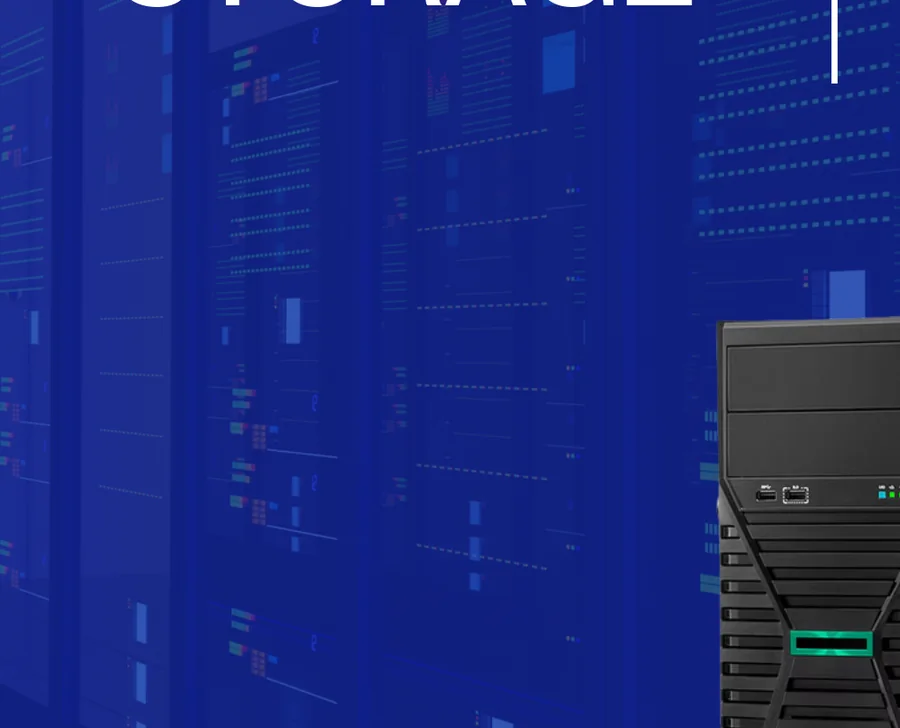
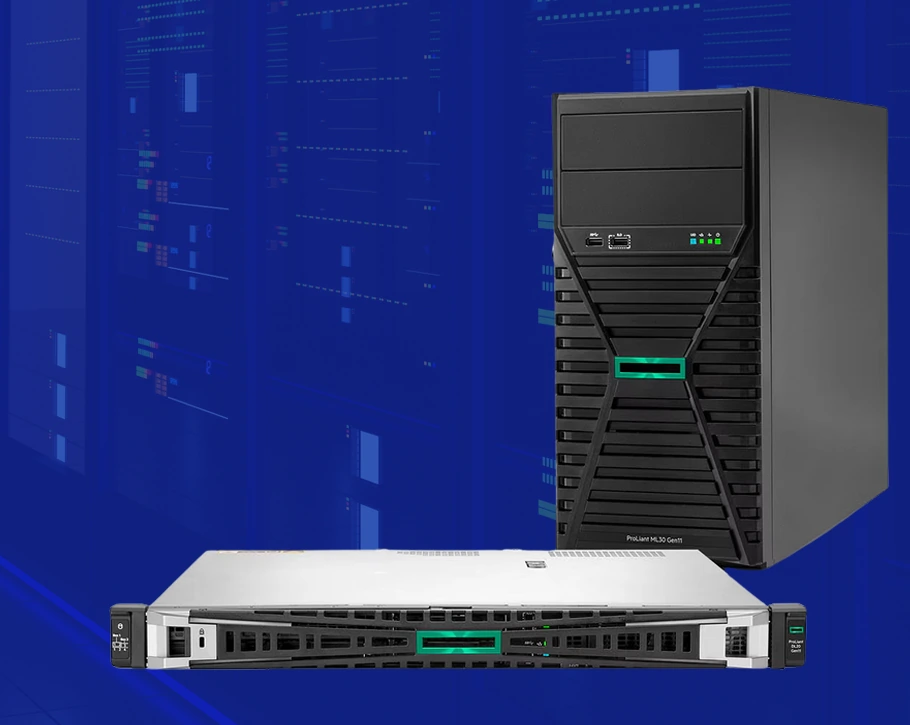
Add files via upload

diff --git a/index.html b/index.html
@@ -3,8 +3,8 @@
 <head>
   <meta charset="utf-8">
   <meta name="viewport" content="width=device-width, initial-scale=1">
-  <title>Área 1 | Shop, Eventos, Data y Equipamiento</title>
-  <meta name="description" content="Área 1 integra shop, eventos, data y equipamiento en un ecosistema de soluciones claras, útiles y profesionales.">
+  <title>Área 1 | Shop, Eventos, Inteligencia &amp; Gestión y Equipamiento</title>
+  <meta name="description" content="Área 1 integra shop, eventos, inteligencia y gestión, y equipamiento en un ecosistema de soluciones claras, útiles y profesionales.">
   <meta name="theme-color" content="#061225">
   <link rel="stylesheet" href="assets/css/styles.css">
 </head>
@@ -12,7 +12,7 @@
   <div class="topbar">
     <div class="container topbar-row">
       <span>Una marca. Cuatro unidades especializadas.</span>
-      <span>Equipamiento · Data · Eventos · Shop</span>
+      <span>Equipamiento · Inteligencia &amp; Gestión · Eventos · Shop</span>
     </div>
   </div>
 
@@ -24,7 +24,7 @@
       <nav class="nav" aria-label="Navegación principal">
         <a href="index.html" aria-current="page">Área 1</a>
         <a href="equipamiento.html">Equipamiento</a>
-        <a href="datos.html">Data</a>
+        <a href="datos.html">Inteligencia &amp; Gestión</a>
         <a href="eventos.html">Eventos</a>
         <a href="/shop/">Shop</a>
         <a href="#metodo">Cómo trabajamos</a>
@@ -42,7 +42,7 @@
         <div class="hero-copy reveal">
           <span class="eyebrow eyebrow-light">Ecosistema Área 1</span>
           <h1>Transformamos <strong>información, ideas y necesidades</strong> en soluciones útiles y profesionales.</h1>
-          <p class="lead">Área 1 reúne shop, eventos, data y equipamiento bajo una misma forma de trabajo: claridad, diseño y enfoque práctico para convertir cada necesidad en una experiencia concreta.</p>
+          <p class="lead">Área 1 reúne shop, eventos, inteligencia y gestión, y equipamiento bajo una misma forma de trabajo: claridad, diseño y enfoque práctico para convertir cada necesidad en una experiencia concreta.</p>
           <div class="hero-actions">
             <a class="btn btn-primary" href="#soluciones">Conocer las áreas</a>
             <a class="btn btn-secondary" href="#metodo">Nuestra forma de trabajar</a>
@@ -117,18 +117,18 @@
 
           <article class="solution-feature solution-data reveal">
             <div class="solution-copy">
-              <span class="solution-index">03 · Área 1 Data</span>
-              <h3>Datos claros. Procesos mejores. Decisiones con respaldo.</h3>
+              <span class="solution-index">03 · Área 1 Inteligencia &amp; Gestión</span>
+              <h3>Información clara. Procesos mejor gestionados. Decisiones con respaldo.</h3>
               <p>Servicios profesionales para ordenar datos, analizar procesos, automatizar informes y convertir información dispersa en gestión.</p>
               <ul class="clean-list">
                 <li>Diagnóstico y mejora de procesos</li>
                 <li>Curación, integración y estructuración de datos</li>
                 <li>Tableros, KPI, informes, proyecciones y automatización</li>
               </ul>
-              <a class="btn btn-primary" href="datos.html">Conocer Área 1 Data</a>
+              <a class="btn btn-primary" href="datos.html">Conocer Área 1 Inteligencia &amp; Gestión</a>
             </div>
             <div class="solution-visual dashboard-preview" aria-hidden="true">
-              <div class="dashboard-top"><span>Panel de gestión</span><b>Área 1 Data</b></div>
+              <div class="dashboard-top"><span>Panel de gestión</span><b>Área 1 Inteligencia &amp; Gestión</b></div>
               <div class="dashboard-kpis">
                 <div><small>Productividad</small><strong>+18%</strong></div>
                 <div><small>Desvíos</small><strong>-12%</strong></div>
@@ -196,7 +196,7 @@
           <img src="assets/img/brand/logo-horizontal.png" alt="Área 1">
           <p>Transformamos información, ideas y necesidades en soluciones claras, útiles y profesionales.</p>
         </div>
-        <div><h4>Soluciones</h4><a href="/shop/">Área 1 Shop</a><a href="eventos.html">Área 1 Eventos</a><a href="datos.html">Área 1 Data</a><a href="equipamiento.html">Área 1 Equipamiento</a></div>
+        <div><h4>Soluciones</h4><a href="/shop/">Área 1 Shop</a><a href="eventos.html">Área 1 Eventos</a><a href="datos.html">Área 1 Inteligencia &amp; Gestión</a><a href="equipamiento.html">Área 1 Equipamiento</a></div>
         <div><h4>Marca</h4><a href="#soluciones">Unidades</a><a href="#metodo">Cómo trabajamos</a><a href="index.html">Página central</a></div>
         <div><h4>Próximamente</h4><span>Canales de contacto</span><span>Casos y portfolio</span></div>
       </div>

diff --git a/datos.html b/datos.html
@@ -3,20 +3,20 @@
 <head>
   <meta charset="utf-8">
   <meta name="viewport" content="width=device-width, initial-scale=1">
-  <title>Área 1 Data | Análisis de datos, procesos e información para empresas</title>
+  <title>Área 1 Inteligencia &amp; Gestión | Análisis de datos, procesos e información para empresas</title>
   <meta name="description" content="Servicios profesionales de análisis de procesos, curación y estructuración de datos, tableros, informes, automatización y proyecciones.">
   <meta name="theme-color" content="#061225">
   <link rel="stylesheet" href="assets/css/styles.css">
 </head>
 <body class="data-page">
-  <div class="topbar"><div class="container topbar-row"><span>Área 1 Data</span><span>Procesos · Información · Decisiones</span></div></div>
+  <div class="topbar"><div class="container topbar-row"><span>Área 1 Inteligencia &amp; Gestión</span><span>Procesos · Información · Decisiones</span></div></div>
   <header class="site-header site-header-dark">
     <div class="container header-row">
       <a class="brand" href="index.html" aria-label="Área 1, inicio"><img src="assets/img/brand/logo-horizontal.png" alt="Área 1"></a>
       <nav class="nav" aria-label="Navegación principal">
         <a href="index.html">Área 1</a>
         <a href="equipamiento.html">Equipamiento</a>
-        <a href="datos.html" aria-current="page">Data</a>
+        <a href="datos.html" aria-current="page">Inteligencia &amp; Gestión</a>
         <a href="eventos.html">Eventos</a>
         <a href="/shop/">Shop</a>
         <a href="#servicios">Servicios</a>
@@ -32,9 +32,9 @@
     <section class="data-hero">
       <div class="container data-hero-grid">
         <div class="data-hero-copy reveal">
-          <span class="eyebrow eyebrow-light">Servicios profesionales de datos y procesos</span>
+          <span class="eyebrow eyebrow-light">Servicios profesionales de inteligencia, datos y procesos</span>
           <h1>Convertimos información dispersa en <strong>gestión, control y decisiones.</strong></h1>
-          <p class="lead">Área 1 Data combina análisis de procesos, ingeniería de datos, inteligencia de negocios y comunicación ejecutiva para construir soluciones que puedan usarse todos los días.</p>
+          <p class="lead">Área 1 Inteligencia &amp; Gestión combina análisis de procesos, ingeniería de datos, inteligencia de negocios y comunicación ejecutiva para construir soluciones que puedan usarse todos los días.</p>
           <div class="hero-actions">
             <a class="btn btn-primary" href="#servicios">Ver servicios</a>
             <a class="btn btn-secondary" href="#metodo-data">Cómo trabajamos</a>
@@ -47,7 +47,7 @@
         </div>
         <div class="data-hero-visual reveal reveal-delay" aria-label="Ejemplo de tablero de gestión">
           <div class="analytics-window">
-            <div class="analytics-header"><div><small>Área 1 Data</small><strong>Panel ejecutivo</strong></div><span>Actualizado</span></div>
+            <div class="analytics-header"><div><small>Área 1 Inteligencia &amp; Gestión</small><strong>Panel ejecutivo</strong></div><span>Actualizado</span></div>
             <div class="analytics-kpis">
               <article><small>Volumen</small><strong>8,42 M</strong><span class="positive">+12,8%</span></article>
               <article><small>Productividad</small><strong>94,6%</strong><span class="positive">+4,1%</span></article>
@@ -185,7 +185,7 @@
   <footer class="footer footer-dark">
     <div class="container">
       <div class="footer-grid">
-        <div class="footer-brand"><img src="assets/img/brand/logo-horizontal.png" alt="Área 1"><p>Área 1 Data · Procesos medibles, datos confiables y decisiones claras.</p></div>
+        <div class="footer-brand"><img src="assets/img/brand/logo-horizontal.png" alt="Área 1"><p>Área 1 Inteligencia &amp; Gestión · Procesos medibles, datos confiables y decisiones claras.</p></div>
         <div><h4>Servicios</h4><a href="#servicios">Procesos</a><a href="#servicios">Datos y BI</a><a href="#servicios">Automatización</a><a href="#servicios">Proyecciones</a></div>
         <div><h4>Área 1</h4><a href="index.html">Página central</a><a href="/shop/">Shop</a><a href="eventos.html">Eventos</a><a href="equipamiento.html">Equipamiento</a></div>
         <div><h4>Próximamente</h4><span>Canales de contacto</span><span>Casos y portfolio</span></div>

diff --git a/equipamiento.html b/equipamiento.html
@@ -16,7 +16,7 @@
       <nav class="nav" aria-label="Navegación principal">
         <a href="index.html">Área 1</a>
         <a href="equipamiento.html" aria-current="page">Equipamiento</a>
-        <a href="datos.html">Data</a>
+        <a href="datos.html">Inteligencia &amp; Gestión</a>
         <a href="eventos.html">Eventos</a>
         <a href="/shop/">Shop</a>
         <a href="#categorias">Categorías</a>
@@ -180,7 +180,7 @@
     <div class="container">
       <div class="footer-grid">
         <div class="footer-brand"><img src="assets/img/brand/logo-horizontal.png" alt="Área 1"><p>Transformamos información, ideas y necesidades en soluciones claras, útiles y profesionales.</p></div>
-        <div><h4>Soluciones</h4><a href="/shop/">Área 1 Shop</a><a href="eventos.html">Área 1 Eventos</a><a href="datos.html">Área 1 Data</a><a href="equipamiento.html">Área 1 Equipamiento</a></div>
+        <div><h4>Soluciones</h4><a href="/shop/">Área 1 Shop</a><a href="eventos.html">Área 1 Eventos</a><a href="datos.html">Área 1 Inteligencia &amp; Gestión</a><a href="equipamiento.html">Área 1 Equipamiento</a></div>
         <div><h4>Equipamiento</h4><a href="#categorias">Categorías</a><a href="#destacados-equip">Soluciones destacadas</a><a href="#cotizacion">Cómo cotizamos</a></div>
         <div><h4>Alcance</h4><span>Modelos sujetos a disponibilidad</span><span>Precio y configuración a cotizar</span></div>
       </div>

diff --git a/eventos.html b/eventos.html
@@ -16,7 +16,7 @@
       <nav class="nav" aria-label="Navegación principal">
         <a href="index.html">Área 1</a>
         <a href="equipamiento.html">Equipamiento</a>
-        <a href="datos.html">Data</a>
+        <a href="datos.html">Inteligencia &amp; Gestión</a>
         <a href="eventos.html" aria-current="page">Eventos</a>
         <a href="/shop/">Shop</a>
         <a href="#servicios">Qué incluye</a>
@@ -169,7 +169,7 @@
       <div class="footer-grid">
         <div class="footer-brand"><img src="assets/img/brand/logo-horizontal.png" alt="Área 1"><p>Área 1 Eventos · Invitaciones digitales para momentos únicos.</p></div>
         <div><h4>Eventos</h4><a href="#portfolio">Ejemplos</a><a href="#servicios">Qué incluye</a><a href="#propuesta">Propuesta</a></div>
-        <div><h4>Área 1</h4><a href="index.html">Página central</a><a href="/shop/">Shop</a><a href="datos.html">Data</a>
+        <div><h4>Área 1</h4><a href="index.html">Página central</a><a href="/shop/">Shop</a><a href="datos.html">Inteligencia &amp; Gestión</a>
         <a href="equipamiento.html">Equipamiento</a></div>
         <div><h4>Contacto</h4><span>Canal de consultas por configurar</span><span>Atención personalizada</span></div>
       </div>

diff --git a/404.html b/404.html
@@ -12,7 +12,7 @@
       <img src="assets/img/brand/logo-horizontal.png" alt="Área 1" style="width:230px;margin:0 auto 38px">
       <span class="eyebrow eyebrow-light">Error 404</span>
       <h1 style="max-width:760px;margin-inline:auto">Esta página no está disponible.</h1>
-      <p class="lead" style="margin-inline:auto">Volvé al ecosistema Área 1 para ingresar al Shop, Eventos o Data.</p>
+      <p class="lead" style="margin-inline:auto">Volvé al ecosistema Área 1 para ingresar al Shop, Eventos, Inteligencia &amp; Gestión o Equipamiento.</p>
       <a class="btn btn-primary" href="index.html">Volver al inicio</a>
     </div>
   </main>

diff --git a/shop/index.html b/shop/index.html
@@ -24,7 +24,7 @@
     <div class="container ecosystem-inner">
       <a href="/">Área 1</a>
       <a href="/equipamiento.html">Equipamiento</a>
-      <a href="/datos.html">Data</a>
+      <a href="/datos.html">Inteligencia &amp; Gestión</a>
       <a href="/eventos.html">Eventos</a>
       <a class="active" href="/shop/">Shop</a>
     </div>

diff --git a/README.md b/README.md
@@ -4,14 +4,14 @@ Sitio institucional integrado de **Área 1**, ahora con cuatro unidades dentro d
 
 - **Área 1 Shop**: catálogo y curaduría de productos dentro de `/shop`.
 - **Área 1 Eventos**: invitaciones digitales y micrositios para celebraciones.
-- **Área 1 Data**: servicios profesionales de datos, procesos, tableros e informes.
+- **Área 1 Inteligencia & Gestión**: servicios profesionales de datos, procesos, tableros e informes.
 - **Área 1 Equipamiento**: equipamiento tecnológico presupuestable para proyectos, con servidores, storage, redes, wireless, UPS y puesto de trabajo.
 
 ## Archivos principales
 
 - `index.html`: página central de la marca.
 - `eventos.html`: Área 1 Eventos.
-- `datos.html`: Área 1 Data.
+- `datos.html`: Área 1 Inteligencia & Gestión.
 - `equipamiento.html`: Área 1 Equipamiento.
 - `shop/index.html`: Shop integrado.
 - `shop/productos.txt`: listado de links del Shop.

diff --git a/CAMBIOS-v4.0.md b/CAMBIOS-v4.0.md
@@ -6,7 +6,7 @@ Se incorpora la cuarta unidad de la marca: **Área 1 Equipamiento**.
 
 - Nueva página `equipamiento.html`.
 - Nueva unidad en la portada central de Área 1.
-- Navegación de Inicio, Eventos y Data actualizada con Equipamiento.
+- Navegación de Inicio, Eventos e Inteligencia & Gestión actualizada con Equipamiento.
 - El Shop original se conserva sin cambios de diseño ni lógica.
 - Nuevas imágenes optimizadas para web derivadas del catálogo suministrado.
 - Categorías: servidores e infraestructura, storage/NAS/backup, redes/wireless, UPS/energía y puesto de trabajo/periféricos.

diff --git a/CAMBIOS-v4.2.md b/CAMBIOS-v4.2.md
@@ -1,0 +1,9 @@
+# Cambios v4.2
+
+- Renombrada el área "Data" a **"Inteligencia & Gestión"** en navegación, página central, página de servicios y Shop.
+- Actualizada la propuesta de valor del sitio central para reflejar la nueva denominación comercial.
+- Reemplazadas las imágenes de **Equipamiento** según las referencias indicadas por el usuario:
+  - `brands.webp` = marcas
+  - `servers.webp` = servidores
+  - `hero.webp` = portafolio presupuestable
+- Se mantuvo la estructura integrada del sitio y la sección Shop dentro del ecosistema Área 1.

diff --git a/CAMBIOS-v4.1.md b/CAMBIOS-v4.1.md
@@ -2,6 +2,6 @@
 
 ## Ajustes realizados
 - Revisión del mensaje principal del sitio central con un criterio de comunicación más general.
-- Reordenamiento de la navegación principal: Área 1 → Equipamiento → Data → Eventos → Shop.
+- Reordenamiento de la navegación principal: Área 1 → Equipamiento → Inteligencia & Gestión → Eventos → Shop.
 - Integración de navegación general dentro de la sección Shop.
 - Mejora visual del uso de imágenes en Área 1 Equipamiento, priorizando centrado, aire y mejor adaptación a cada bloque.
